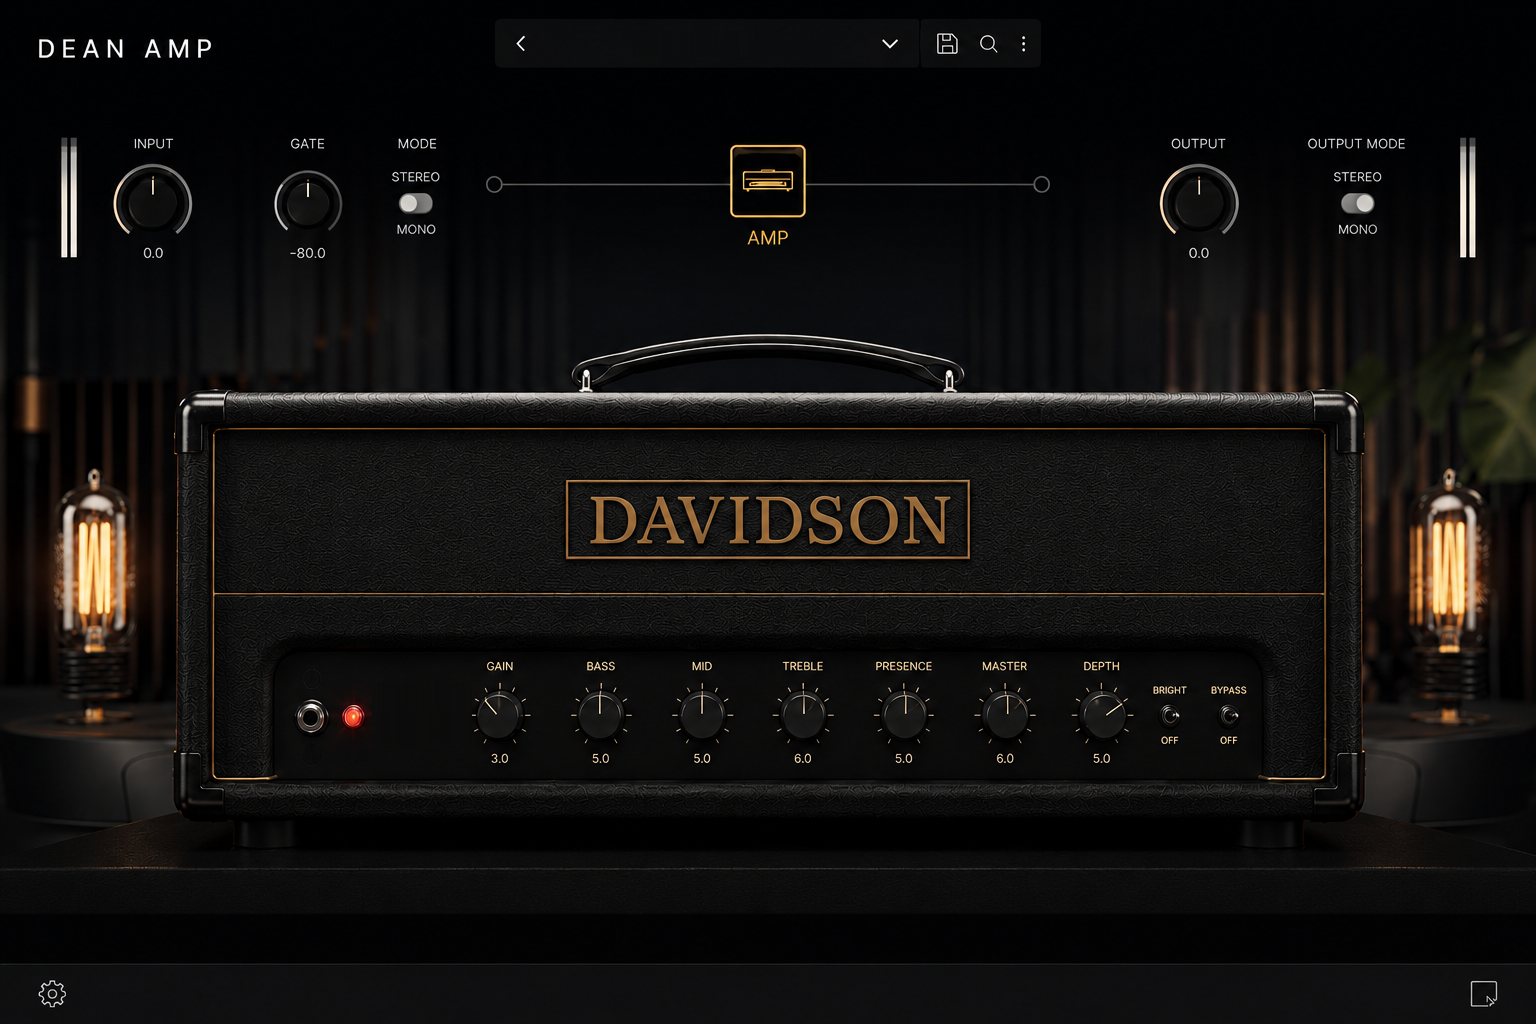
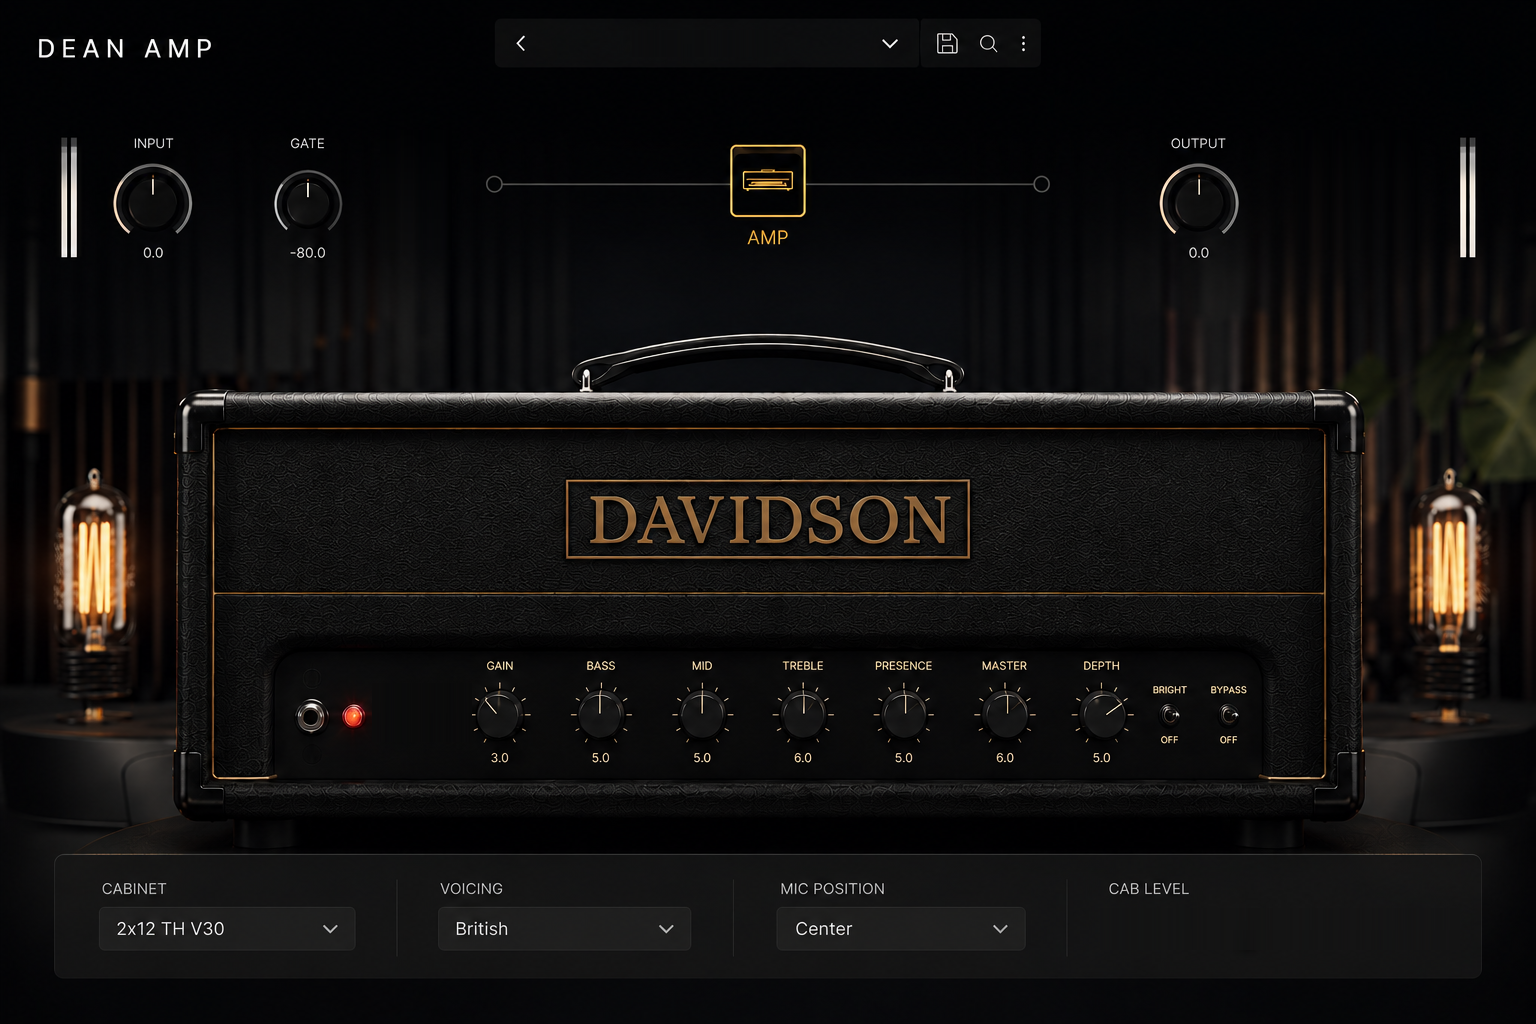
add back in controls that are missing

diff --git a/source/PluginProcessor.cpp b/source/PluginProcessor.cpp
@@ -23,8 +23,6 @@ namespace pid
     static constexpr const char* mic      = "mic";
     static constexpr const char* cabBypass= "cabBypass";
     static constexpr const char* cabLevel = "cabLevel";
-    static constexpr const char* inMono   = "inputMono";
-    static constexpr const char* outMono  = "outputMono";
 }
 
 juce::AudioProcessorValueTreeState::ParameterLayout DeanAmpProcessor::createLayout()
@@ -75,10 +73,9 @@ juce::AudioProcessorValueTreeState::ParameterLayout DeanAmpProcessor::createLayo
         ParameterID { pid::output, 1 }, "Output",
         NormalisableRange<float> (-36.0f, 12.0f, 0.1f), -3.0f,
         AudioParameterFloatAttributes().withStringFromValueFunction ([](float v, int){ return juce::String (v, 1) + " dB"; })));
-    p.push_back (std::make_unique<FParam> (
-        ParameterID { pid::mic, 1 }, "Mic", NormalisableRange<float> (0.0f, 1.0f), 0.35f,
-        AudioParameterFloatAttributes().withStringFromValueFunction ([](float v, int){
-            return v < 0.5f ? "On-Axis" : (v < 0.8f ? "Edge" : "Off-Axis"); })));
+    p.push_back (std::make_unique<CParam> (
+        ParameterID { pid::mic, 1 }, "Mic Position",
+        juce::StringArray { "Center", "Edge", "Off-Axis" }, 0));
 
     p.push_back (std::make_unique<CParam> (
         ParameterID { pid::channel, 1 }, "Channel",
@@ -92,11 +89,6 @@ juce::AudioProcessorValueTreeState::ParameterLayout DeanAmpProcessor::createLayo
 
     p.push_back (std::make_unique<BParam> (ParameterID { pid::bright, 1 },    "Bright",     false));
     p.push_back (std::make_unique<BParam> (ParameterID { pid::cabBypass, 1 }, "Cab Bypass", false));
-
-    // STEREO/MONO selectors (false = STEREO, true = MONO). Input mono sums the
-    // incoming L/R before the amp; output mono sums the processed result.
-    p.push_back (std::make_unique<BParam> (ParameterID { pid::inMono, 1 },  "Input Mono",  false));
-    p.push_back (std::make_unique<BParam> (ParameterID { pid::outMono, 1 }, "Output Mono", false));
 
     p.push_back (std::make_unique<FParam> (
         ParameterID { pid::cabLevel, 1 }, "Level",
@@ -125,10 +117,14 @@ bool DeanAmpProcessor::isBusesLayoutSupported (const BusesLayout& layouts) const
 
 void DeanAmpProcessor::prepareToPlay (double sampleRate, int samplesPerBlock)
 {
+    // The amp is mono internally (input is always summed to mono, then the
+    // finished signal is broadcast to the output channels), so the whole DSP
+    // chain — including the oversamplers and the cab convolver — is prepared
+    // for a single channel.
     juce::dsp::ProcessSpec spec;
     spec.sampleRate       = sampleRate;
     spec.maximumBlockSize = (juce::uint32) samplesPerBlock;
-    spec.numChannels      = (juce::uint32) juce::jmax (getTotalNumInputChannels(), getTotalNumOutputChannels());
+    spec.numChannels      = 1;
 
     gate.prepare (sampleRate);
     preamp.prepare (spec);
@@ -152,15 +148,12 @@ void DeanAmpProcessor::updateFromParams()
     const float resoV    = apvts.getRawParameterValue (pid::resonance)->load();
     const float masterV  = apvts.getRawParameterValue (pid::master)->load();
     const float outDb    = apvts.getRawParameterValue (pid::output)->load();
-    const float micV     = apvts.getRawParameterValue (pid::mic)->load();
+    const int   micIdx   = (int) apvts.getRawParameterValue (pid::mic)->load();
     const int   chanIdx  = (int) apvts.getRawParameterValue (pid::channel)->load();
     const int   voiceIdx = (int) apvts.getRawParameterValue (pid::voicing)->load();
     const int   cabIdx   = (int) apvts.getRawParameterValue (pid::cab)->load();
     const bool  brightOn = apvts.getRawParameterValue (pid::bright)->load() > 0.5f;
     const bool  cabBy    = apvts.getRawParameterValue (pid::cabBypass)->load() > 0.5f;
-
-    inputMono  = apvts.getRawParameterValue (pid::inMono)->load()  > 0.5f;
-    outputMono = apvts.getRawParameterValue (pid::outMono)->load() > 0.5f;
 
     gate.setThresholdDb (gateDb);
     inputTrim  = juce::Decibels::decibelsToGain (inputDb);
@@ -179,8 +172,10 @@ void DeanAmpProcessor::updateFromParams()
     powerAmp.setResonance   (resoV);
     powerAmp.setMasterDrive (masterV);
 
+    // Mic position → on-axis/off-axis IR blend (Center brightest, Off-Axis darkest).
+    const float micBlend = micIdx == 0 ? 0.0f : (micIdx == 1 ? 0.6f : 1.0f);
     cab.setCabIndex (cabIdx);
-    cab.setMicBlend (micV);
+    cab.setMicBlend (micBlend);
     cab.setBypass   (cabBy);
 
     const float cabLevelDb = apvts.getRawParameterValue (pid::cabLevel)->load();
@@ -196,52 +191,53 @@ void DeanAmpProcessor::processBlock (juce::AudioBuffer<float>& buffer, juce::Mid
 
     updateFromParams();
 
-    // Input trim + input metering
+    const int n = buffer.getNumSamples();
+
+    // Input trim.
     buffer.applyGain (inputTrim);
 
-    // Input MONO: collapse L/R to a centred mono sum before the amp.
-    if (inputMono && numIn > 1)
+    // The amp is a mono device fed by a guitar: sum the input down to channel 0.
     {
-        const int n = buffer.getNumSamples();
-        auto* l = buffer.getWritePointer (0);
-        auto* r = buffer.getWritePointer (1);
-        for (int i = 0; i < n; ++i) { const float m = 0.5f * (l[i] + r[i]); l[i] = m; r[i] = m; }
-    }
-    {
-        const int n = buffer.getNumSamples();
-        const float peakL = buffer.getMagnitude (0, 0, n);
-        const float peakR = numIn > 1 ? buffer.getMagnitude (1, 0, n) : peakL;
-        inputMeterL.store (peakL);
-        inputMeterR.store (peakR);
+        auto* mono = buffer.getWritePointer (0);
+        for (int i = 0; i < n; ++i)
+        {
+            float s = mono[i];
+            for (int c = 1; c < numIn; ++c) s += buffer.getReadPointer (c)[i];
+            mono[i] = s / (float) juce::jmax (1, numIn);
+        }
     }
 
+    // Input metering (mono).
+    {
+        const float peak = buffer.getMagnitude (0, 0, n);
+        inputMeterL.store (peak);
+        inputMeterR.store (peak);
+    }
+
+    // Process the single mono channel through the whole chain. Doing this on one
+    // channel (rather than two identical ones) is both correct — the per-stage
+    // IIR filters keep a single state — and cheaper.
     juce::dsp::AudioBlock<float> block (buffer);
+    auto mono = block.getSingleChannelBlock (0);
 
-    gate.process     (block);
-    preamp.process   (block);
-    toneStack.process(block);
-    powerAmp.process (block);
-    cab.process      (block);
+    gate.process     (mono);
+    preamp.process   (mono);
+    toneStack.process(mono);
+    powerAmp.process (mono);
+    cab.process      (mono);
 
-    // Post-cab level + output trim
-    buffer.applyGain (cabLevelGain * outputTrim);
+    // Post-cab level + output trim (on the processed mono channel).
+    buffer.applyGain (0, 0, n, cabLevelGain * outputTrim);
 
-    // Output MONO: collapse the processed signal to mono on both channels.
-    if (outputMono && numOut > 1)
+    // Broadcast the finished mono signal to every output channel (stereo out).
+    for (int c = 1; c < numOut; ++c)
+        buffer.copyFrom (c, 0, buffer, 0, 0, n);
+
+    // Output metering.
     {
-        const int n = buffer.getNumSamples();
-        auto* l = buffer.getWritePointer (0);
-        auto* r = buffer.getWritePointer (1);
-        for (int i = 0; i < n; ++i) { const float m = 0.5f * (l[i] + r[i]); l[i] = m; r[i] = m; }
-    }
-
-    // Output metering
-    {
-        const int n = buffer.getNumSamples();
-        const float peakL = buffer.getMagnitude (0, 0, n);
-        const float peakR = numOut > 1 ? buffer.getMagnitude (1, 0, n) : peakL;
-        outputMeterL.store (peakL);
-        outputMeterR.store (peakR);
+        const float peak = buffer.getMagnitude (0, 0, n);
+        outputMeterL.store (peak);
+        outputMeterR.store (peak);
     }
 }
 

diff --git a/source/ui/DeanLookAndFeel.cpp b/source/ui/DeanLookAndFeel.cpp
@@ -308,21 +308,64 @@ void DeanLookAndFeel::drawComboBox (juce::Graphics& g, int width, int height,
                                     int /*bw*/, int /*bh*/, juce::ComboBox& box)
 {
     auto bounds = juce::Rectangle<float> (0.0f, 0.0f, (float) width, (float) height);
+    const float radius = juce::jmin (8.0f, height * 0.22f);
 
-    g.setColour (juce::Colour (0xff15171b));
-    g.fillRoundedRectangle (bounds.reduced (1.0f), 4.0f);
-    g.setColour (juce::Colour (0xff2a2c30));
-    g.drawRoundedRectangle (bounds.reduced (1.0f), 4.0f, 1.0f);
+    // Dark inset field (drawn opaque to cover the baked frame in the artwork)
+    juce::ColourGradient fill (juce::Colour (0xff1a1c20), bounds.getCentreX(), bounds.getY(),
+                               juce::Colour (0xff0e0f12), bounds.getCentreX(), bounds.getBottom(), false);
+    g.setGradientFill (fill);
+    g.fillRoundedRectangle (bounds, radius);
+    g.setColour (juce::Colours::black.withAlpha (0.6f));
+    g.drawRoundedRectangle (bounds.reduced (0.5f), radius, 1.0f);
+    g.setColour (juce::Colour (0xff34373e));
+    g.drawRoundedRectangle (bounds.reduced (1.0f), radius - 0.5f, 1.0f);
 
-    auto arrowArea = bounds.removeFromRight ((float) height).reduced (10.0f);
-    juce::Path tri;
-    tri.addTriangle (arrowArea.getX(), arrowArea.getY(),
-                     arrowArea.getRight(), arrowArea.getY(),
-                     arrowArea.getCentreX(), arrowArea.getBottom());
-    g.setColour (kGold);
-    g.fillPath (tri);
-
+    // Chevron (v) on the right
+    auto a = bounds.removeFromRight ((float) height).reduced (height * 0.32f);
+    const float midY = a.getCentreY() - a.getHeight() * 0.1f;
+    juce::Path chev;
+    chev.startNewSubPath (a.getX(), midY);
+    chev.lineTo (a.getCentreX(), midY + a.getHeight() * 0.45f);
+    chev.lineTo (a.getRight(), midY);
+    g.setColour (juce::Colour (0xffb8bcc4));
+    g.strokePath (chev, juce::PathStrokeType (1.6f, juce::PathStrokeType::curved,
+                                              juce::PathStrokeType::rounded));
     juce::ignoreUnused (box);
+}
+
+// Horizontal slider: thin groove, gold fill up to the thumb, bright vertical thumb.
+// Matches the "CAB LEVEL" control in the bottom bar.
+void DeanLookAndFeel::drawLinearSlider (juce::Graphics& g, int x, int y, int width, int height,
+                                        float sliderPos, float minSliderPos, float maxSliderPos,
+                                        juce::Slider::SliderStyle style, juce::Slider& s)
+{
+    if (style != juce::Slider::LinearHorizontal && style != juce::Slider::LinearBar)
+    {
+        LookAndFeel_V4::drawLinearSlider (g, x, y, width, height, sliderPos,
+                                          minSliderPos, maxSliderPos, style, s);
+        return;
+    }
+
+    const float cy = (float) y + (float) height * 0.5f;
+    const float left = (float) x;
+    const float right = (float) x + (float) width;
+
+    // Unfilled groove
+    g.setColour (juce::Colour (0xff3a3c42));
+    g.drawLine (left, cy, right, cy, 2.0f);
+    // Filled portion (gold)
+    g.setColour (kGold);
+    g.drawLine (left, cy, sliderPos, cy, 2.6f);
+
+    // Thumb: a short bright vertical bar
+    const float th = (float) height * 0.85f;
+    auto thumb = juce::Rectangle<float> (4.0f, th).withCentre ({ sliderPos, cy });
+    g.setColour (juce::Colours::black.withAlpha (0.5f));
+    g.fillRoundedRectangle (thumb.translated (0.0f, 1.0f), 1.5f);
+    juce::ColourGradient tg (juce::Colour (0xfff3eedd), thumb.getCentreX(), thumb.getY(),
+                             juce::Colour (0xffc9c0a6), thumb.getCentreX(), thumb.getBottom(), false);
+    g.setGradientFill (tg);
+    g.fillRoundedRectangle (thumb, 1.5f);
 }
 
 juce::Font DeanLookAndFeel::getLabelFont (juce::Label&)

diff --git a/source/PluginEditor.cpp b/source/PluginEditor.cpp
@@ -23,8 +23,6 @@ DeanAmpEditor::DeanAmpEditor (DeanAmpProcessor& p)
       proc (p),
       brightSwitch (p.apvts, "bright",     "Bright", false),
       bypassSwitch (p.apvts, "cabBypass",  "Bypass", false),
-      inModeSwitch (p.apvts, "inputMono"),
-      outModeSwitch(p.apvts, "outputMono"),
       inMeter  (p.inputMeterL,  p.inputMeterR),
       outMeter (p.outputMeterL, p.outputMeterR)
 {
@@ -72,10 +70,29 @@ DeanAmpEditor::DeanAmpEditor (DeanAmpProcessor& p)
 
     addAndMakeVisible (brightSwitch);
     addAndMakeVisible (bypassSwitch);
-    addAndMakeVisible (inModeSwitch);
-    addAndMakeVisible (outModeSwitch);
     addAndMakeVisible (inMeter);
     addAndMakeVisible (outMeter);
+
+    // Bottom bar: cabinet / voicing / mic position dropdowns. Item order MUST
+    // match each parameter's choice order in the processor.
+    auto setupBox = [this] (juce::ComboBox& box, const juce::StringArray& items)
+    {
+        box.addItemList (items, 1);
+        box.setJustificationType (juce::Justification::centredLeft);
+        addAndMakeVisible (box);
+    };
+    setupBox (cabBox,     { "4x12 Greenback", "4x12 V30", "2x12 American", "1x12 Tweed" });
+    setupBox (voicingBox, { "British", "American" });
+    setupBox (micBox,     { "Center", "Edge", "Off-Axis" });
+    cabAtt     = std::make_unique<juce::AudioProcessorValueTreeState::ComboBoxAttachment> (p.apvts, "cab",     cabBox);
+    voicingAtt = std::make_unique<juce::AudioProcessorValueTreeState::ComboBoxAttachment> (p.apvts, "voicing", voicingBox);
+    micAtt     = std::make_unique<juce::AudioProcessorValueTreeState::ComboBoxAttachment> (p.apvts, "mic",     micBox);
+
+    cabLevel.setSliderStyle (juce::Slider::LinearHorizontal);
+    cabLevel.setTextBoxStyle (juce::Slider::NoTextBox, false, 0, 0);
+    cabLevel.onValueChange = [this] { repaint(); };
+    addAndMakeVisible (cabLevel);
+    cabLevelAtt = std::make_unique<juce::AudioProcessorValueTreeState::SliderAttachment> (p.apvts, "cabLevel", cabLevel);
 
     // Preset stepper click zones (the < and v chevrons flanking the name pill)
     presetPrevZone = { 0.330f, 0.020f, 0.030f, 0.050f };
@@ -137,13 +154,16 @@ void DeanAmpEditor::resized()
     brightSwitch.setBounds (scaledRect (0.760f - 0.020f, 0.679f, 0.040f, 0.066f));
     bypassSwitch.setBounds (scaledRect (0.799f - 0.020f, 0.679f, 0.040f, 0.066f));
 
-    // STEREO/MONO slide pills.
-    inModeSwitch .setBounds (scaledRect (0.270f - 0.018f, 0.188f, 0.036f, 0.022f));
-    outModeSwitch.setBounds (scaledRect (0.883f - 0.018f, 0.188f, 0.036f, 0.022f));
-
     // Edge level meters.
     inMeter .setBounds (scaledRect (0.0395f, 0.146f, 0.011f, 0.105f));
     outMeter.setBounds (scaledRect (0.9495f, 0.146f, 0.011f, 0.105f));
+
+    // Bottom bar: dropdowns cover their baked frames; slider covers the gold track.
+    cabBox    .setBounds (scaledRect (0.0586f, 0.8838f, 0.1745f, 0.0449f));
+    voicingBox.setBounds (scaledRect (0.2845f, 0.8838f, 0.1660f, 0.0449f));
+    micBox    .setBounds (scaledRect (0.5046f, 0.8838f, 0.1634f, 0.0449f));
+    cabLevel  .setBounds (scaledRect (0.7194f, 0.8965f, 0.1823f, 0.0234f));
+    cabLevelValueZone = { 0.900f, 0.892f, 0.058f, 0.030f };
 }
 
 void DeanAmpEditor::paint (juce::Graphics& g)
@@ -209,6 +229,18 @@ void DeanAmpEditor::paint (juce::Graphics& g)
             g.drawText (name, plate, juce::Justification::centredLeft);
         }
     }
+
+    // 3) Cab Level dB readout (bottom bar). Chip matches the panel so the baked
+    //    value underneath is hidden.
+    {
+        const float db = proc.apvts.getRawParameterValue ("cabLevel")->load();
+        const juce::String txt = juce::String (db, 1) + " dB";
+        auto r = juce::Rectangle<float> (cabLevelValueZone.getX() * W, cabLevelValueZone.getY() * H,
+                                         cabLevelValueZone.getWidth() * W, cabLevelValueZone.getHeight() * H);
+        g.setColour (juce::Colour (0xffcfd2d6));
+        g.setFont (DeanLookAndFeel::getDisplayFont (0.0145f * H, false, 0.04f));
+        g.drawText (txt, r, juce::Justification::centred);
+    }
 }
 
 void DeanAmpEditor::mouseDown (const juce::MouseEvent& e)
@@ -243,6 +275,7 @@ void DeanAmpEditor::timerCallback()
     juce::String hash = presetName();
     for (auto& k : knobs)
         hash << ':' << juce::String (proc.apvts.getRawParameterValue (k.pid)->load(), 3);
+    hash << ":cl" << juce::String (proc.apvts.getRawParameterValue ("cabLevel")->load(), 2);
 
     if (hash != lastValueHash)
     {

diff --git a/source/PluginEditor.h b/source/PluginEditor.h
@@ -3,7 +3,6 @@
 #include "ui/DeanLookAndFeel.h"
 #include "ui/LevelMeter.h"
 #include "ui/ToggleSwitch.h"
-#include "ui/SlideToggle.h"
 
 namespace deanamp
 {
@@ -52,10 +51,16 @@ private:
 
     // --- Switches -----------------------------------------------------------
     ToggleSwitch brightSwitch, bypassSwitch;
-    SlideToggle  inModeSwitch, outModeSwitch;
 
     // --- Meters -------------------------------------------------------------
     LevelMeter inMeter, outMeter;
+
+    // --- Bottom bar: cabinet / voicing / mic position / cab level -----------
+    juce::ComboBox cabBox, voicingBox, micBox;
+    std::unique_ptr<juce::AudioProcessorValueTreeState::ComboBoxAttachment> cabAtt, voicingAtt, micAtt;
+    juce::Slider cabLevel;
+    std::unique_ptr<juce::AudioProcessorValueTreeState::SliderAttachment> cabLevelAtt;
+    juce::Rectangle<float> cabLevelValueZone;   // normalized, for live dB readout
 
     // Click zones (normalized) for the preset stepper in the top bar.
     juce::Rectangle<float> presetPrevZone, presetNextZone;

diff --git a/source/ui/DeanLookAndFeel.h b/source/ui/DeanLookAndFeel.h
@@ -43,6 +43,10 @@ public:
                        bool isButtonDown, int buttonX, int buttonY,
                        int buttonW, int buttonH, juce::ComboBox&) override;
 
+    void drawLinearSlider (juce::Graphics&, int x, int y, int width, int height,
+                           float sliderPos, float minSliderPos, float maxSliderPos,
+                           juce::Slider::SliderStyle, juce::Slider&) override;
+
     juce::Font getLabelFont (juce::Label&) override;
     juce::Font getComboBoxFont (juce::ComboBox&) override;
     juce::Font getPopupMenuFont() override;

diff --git a/source/PluginProcessor.h b/source/PluginProcessor.h
@@ -60,7 +60,6 @@ private:
 
     float inputTrim { 1.0f }, outputTrim { 1.0f };
     float cabLevelGain { 1.0f };
-    bool  inputMono { false }, outputMono { false };
 
     JUCE_DECLARE_NON_COPYABLE_WITH_LEAK_DETECTOR (DeanAmpProcessor)
 };